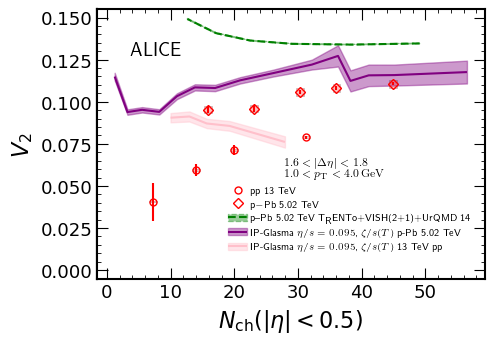
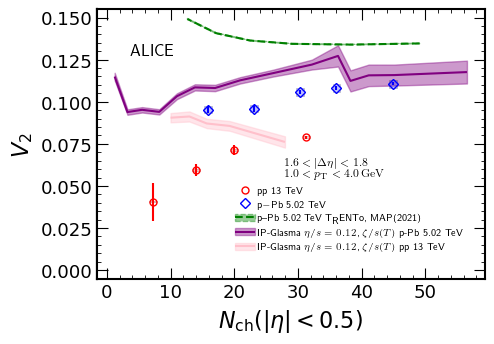
Adjust hydro comparison figure 3.

diff --git a/Fig6_vn_allSystems_comp.py b/Fig6_vn_allSystems_comp.py
@@ -32,7 +32,7 @@ plotParams = {
 #	"vn_pPb_zna":{"color":"b","fmt":"s","mfc":"none","markersize":5.0,"label":"2PC: pPb $\\sqrt{s_\\mathrm{NN}}$ = 5.02 TeV, ZNA","labelLegendId":0},
 #	"vn_pPb_v0a":{"color":"b","fmt":"s","mfc":"none","markersize":5.0,"label":"2PC: pPb $\\sqrt{s_\\mathrm{NN}}$ = 5.02 TeV, V0A","labelLegendId":0},
 #	"vn_pPb_v0a":{"color":"k","fmt":"*","markersize":5.0,"label":"p$-$Pb $\\sqrt{s_\\mathrm{NN}}$ = 5.02 TeV ","labelLegendId":0},
-	"vn_pPb_v0a_14":{"color":"r","fmt":"D","mfc":"none","markersize":5.0,"label":"p$-$Pb 5.02 TeV","labelLegendId":0},
+	"vn_pPb_v0a_14":{"color":"b","fmt":"D","mfc":"none","markersize":5.0,"label":"p$-$Pb 5.02 TeV","labelLegendId":0},
 	#"vn_hydro_pPb":{"color":"g","plotType":"theory"},
 #	"vn_pPb_pub":{"color":"orange","fmt":"p","mfc":"none","markersize":5.0,"label":"$V_{2}\\{2,|\Delta\eta|<1.4\\}$: pPb $\\sqrt{s_\\mathrm{NN}}$ = 5.02 TeV","labelLegendId":1},
 	#"vn_PbPb_pub":{"color":"brown","fmt":"D","mfc":"none","markersize":5.0,"label":"$V_{2}\\{2\\}$: Pb$-$Pb $\\sqrt{s_\\mathrm{NN}}$ = 5.02 TeV","labelLegendId":1},
@@ -110,14 +110,14 @@ for s,color in [
 	pPb_hydro_mult_avg = 0.5*(pPb_hydro_mult[:-1]+pPb_hydro_mult[1:])
 	_,y,_,yerr = JPyPlotRatio.TGraphErrorsToNumpy(gr);
 	#plot.Add(0,(pPb_hydro_mult_avg[1:],y[1:],yerr[1:]),linecolor=color,linestyle="--",color=color,plotType="theory",alpha=0.4,label="p--Pb 5.02 TeV {T\\raisebox{-.5ex}{R}ENTo}",labelOrder=1); #+" ${} < p_\\mathrm{{T}} < {}\\,\\mathrm{{GeV}}$".format(*s)
-	plot.Add(0,(pPb_hydro_mult_avg[1:],y[1:],yerr[1:]),linecolor=color,linestyle="--",color=color,plotType="theory",alpha=0.4,label="p--Pb 5.02 TeV {T\\raisebox{-.5ex}{R}ENTo}+VISH(2+1)+UrQMD"+" {}".format(s),labelOrder=1);
+	plot.Add(0,(pPb_hydro_mult_avg[1:],y[1:],yerr[1:]),linecolor=color,linestyle="--",color=color,plotType="theory",alpha=0.4,label="p--Pb 5.02 TeV {T\\raisebox{-.5ex}{R}ENTo}, MAP(2021)",labelOrder=1);
 	fh.Close();
 
 with open("data/hydroschenke/schenke_SmallSystem.pkl","rb") as f:
 	schenkeDict = pickle.load(f);
 for s,label,color in [
-	(('pPb5020','v2','1_4'),"IP-Glasma $\\eta/s=0.095$, $\\zeta/s(T)$ p-Pb 5.02 TeV","purple"),
-	(('pp13TeV','v2','1_4'),"IP-Glasma $\\eta/s=0.095$, $\\zeta/s(T)$ 13 TeV pp","pink")]:
+	(('pPb5020','v2','1_4'),"IP-Glasma $\\eta/s=0.12$, $\\zeta/s(T)$ p-Pb 5.02 TeV","purple"),
+	(('pp13TeV','v2','1_4'),"IP-Glasma $\\eta/s=0.12$, $\\zeta/s(T)$ pp 13 TeV","pink")]:
 	d = schenkeDict[s];
 	plot.Add(0,(d["mult"],d["y"],d["yerr"]),plotType="theory",linecolor=color,color=color,alpha=0.4,label=label,labelOrder=2);
 
@@ -164,7 +164,7 @@ for i,s in enumerate(data):
 #plot.Ratio(plots["vn_pp_14"], plots["vn_pp"]);
 #plot.Ratio(plots["vn_pPb_v0a_14"], plots["vn_pPb_v0a"]);
 
-plot.GetPlot().text(0.19,0.75,"ALICE",fontsize=14);
+plot.GetPlot().text(0.19,0.75,"ALICE",fontsize=12);
 plot.GetPlot().text(0.5,0.40,"$1.6<|\Delta\eta|<1.8$\n$1.0<p_\\mathrm{T}<4.0\\,\\mathrm{GeV}$",fontsize=8);
 #plot.GetPlot().text(0.35,0.3,"$1 < p_\\mathrm{T} < 2.0 \\,\\mathrm{GeV}/c$",fontsize=8);
 #plot.GetPlot().text(0.65,0.3,"$1 < p_\\mathrm{T} < 4.0 \\,\\mathrm{GeV}/c$",fontsize=8);
